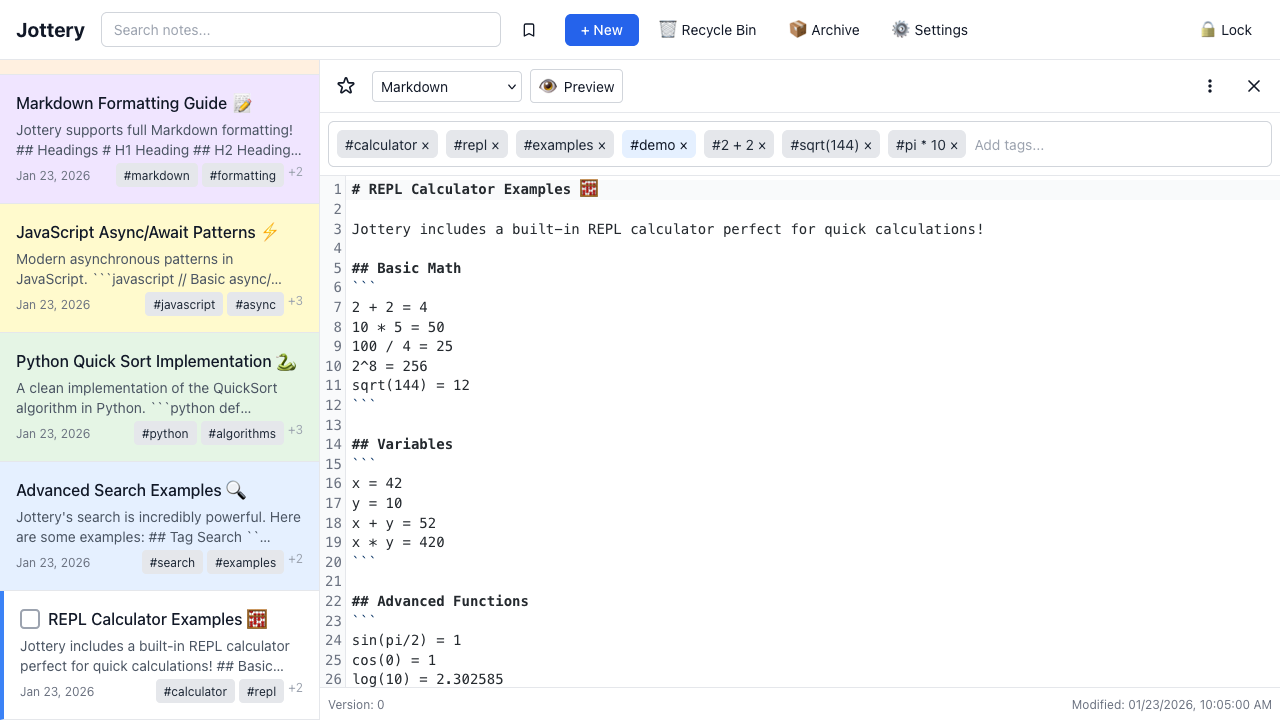
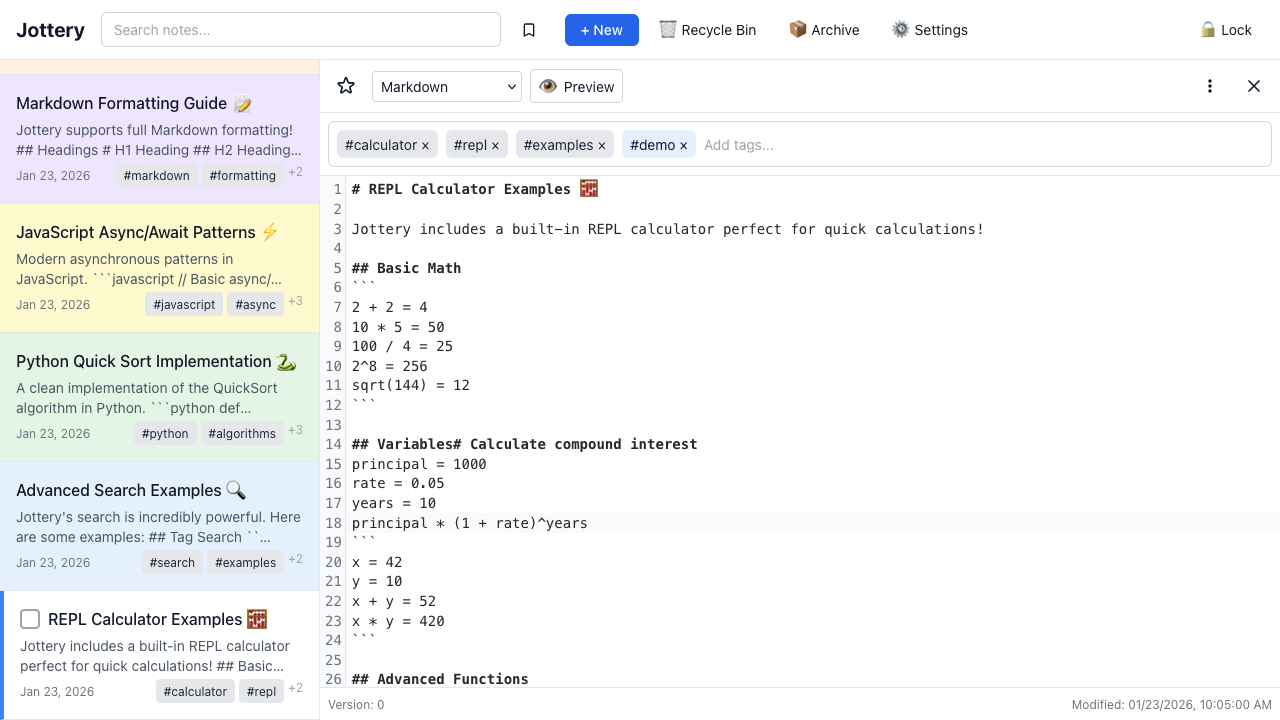
feat: Add REPL calculator screenshots with compound interest example
- Create REPL calculator screenshots for light and dark modes
- Use calc syntax mode with compound interest example from docs
- Update landing page to include dark mode calculator screenshot
- Fix calculator test to create note with calc syntax instead of modal

The REPL calculator is a CodeMirror extension (calcExtension) that
provides live evaluation of mathematical expressions. The screenshot
shows the compound interest example:

  principal = 1000
  rate = 0.05
  years = 10
  principal * (1 + rate)^years

This correctly demonstrates the working calculator feature with proper
syntax highlighting and inline result display.

Changed region(s): [[0.2812, 0.6111, 0.5312, 0.9472], [0.5312, 0.1833, 0.8125, 0.2444], [0.375, 0.7028, 0.4688, 0.7333]]

diff --git a/e2e/screenshots.spec.ts b/e2e/screenshots.spec.ts
@@ -310,6 +310,60 @@ test.describe('Landing Page Screenshots - Light Mode', () => {
 
     console.log('✓ Screenshot saved: screenshots/04-version-history-light.png');
   });
+
+  test('05-light. REPL Calculator', async ({ page }) => {
+    // Wait for theme to fully apply
+    await page.waitForTimeout(1000);
+
+    // Create a new note with calc syntax
+    const newButton = page.locator('button').filter({ hasText: /\+ New|New Note/i }).first();
+    await newButton.click();
+    await page.waitForTimeout(1000);
+
+    // Set syntax language to calc
+    const syntaxButton = page.locator('button, select').filter({ hasText: /Markdown|Syntax|Language/i }).first();
+    if (await syntaxButton.isVisible().catch(() => false)) {
+      await syntaxButton.click();
+      await page.waitForTimeout(300);
+
+      // Look for calc option
+      const calcOption = page.locator('button, option, [role="menuitem"]').filter({ hasText: /calc/i }).first();
+      if (await calcOption.isVisible().catch(() => false)) {
+        await calcOption.click();
+        await page.waitForTimeout(500);
+      }
+    }
+
+    // Find the editor
+    const editor = page.locator('.cm-content, .CodeMirror, [contenteditable="true"]').first();
+    await editor.click();
+    await page.waitForTimeout(300);
+
+    // Type the compound interest example
+    await page.keyboard.type('# Calculate compound interest');
+    await page.keyboard.press('Enter');
+    await page.keyboard.type('principal = 1000');
+    await page.keyboard.press('Enter');
+    await page.waitForTimeout(400);
+
+    await page.keyboard.type('rate = 0.05');
+    await page.keyboard.press('Enter');
+    await page.waitForTimeout(400);
+
+    await page.keyboard.type('years = 10');
+    await page.keyboard.press('Enter');
+    await page.waitForTimeout(400);
+
+    await page.keyboard.type('principal * (1 + rate)^years');
+    await page.waitForTimeout(800);
+
+    await page.screenshot({
+      path: 'screenshots/05-calculator-light.png',
+      fullPage: false,
+    });
+
+    console.log('✓ Screenshot saved: screenshots/05-calculator-light.png');
+  });
 });
 
 test.describe('Landing Page Screenshots - Dark Mode', () => {
@@ -545,5 +599,59 @@ test.describe('Landing Page Screenshots - Dark Mode', () => {
     });
 
     console.log('✓ Screenshot saved: screenshots/04-version-history-dark.png');
+  });
+
+  test('05-dark. REPL Calculator', async ({ page }) => {
+    // Wait for theme to fully apply
+    await page.waitForTimeout(1000);
+
+    // Create a new note with calc syntax
+    const newButton = page.locator('button').filter({ hasText: /\+ New|New Note/i }).first();
+    await newButton.click();
+    await page.waitForTimeout(1000);
+
+    // Set syntax language to calc
+    const syntaxButton = page.locator('button, select').filter({ hasText: /Markdown|Syntax|Language/i }).first();
+    if (await syntaxButton.isVisible().catch(() => false)) {
+      await syntaxButton.click();
+      await page.waitForTimeout(300);
+
+      // Look for calc option
+      const calcOption = page.locator('button, option, [role="menuitem"]').filter({ hasText: /calc/i }).first();
+      if (await calcOption.isVisible().catch(() => false)) {
+        await calcOption.click();
+        await page.waitForTimeout(500);
+      }
+    }
+
+    // Find the editor
+    const editor = page.locator('.cm-content, .CodeMirror, [contenteditable="true"]').first();
+    await editor.click();
+    await page.waitForTimeout(300);
+
+    // Type the compound interest example
+    await page.keyboard.type('# Calculate compound interest');
+    await page.keyboard.press('Enter');
+    await page.keyboard.type('principal = 1000');
+    await page.keyboard.press('Enter');
+    await page.waitForTimeout(400);
+
+    await page.keyboard.type('rate = 0.05');
+    await page.keyboard.press('Enter');
+    await page.waitForTimeout(400);
+
+    await page.keyboard.type('years = 10');
+    await page.keyboard.press('Enter');
+    await page.waitForTimeout(400);
+
+    await page.keyboard.type('principal * (1 + rate)^years');
+    await page.waitForTimeout(800);
+
+    await page.screenshot({
+      path: 'screenshots/05-calculator-dark.png',
+      fullPage: false,
+    });
+
+    console.log('✓ Screenshot saved: screenshots/05-calculator-dark.png');
   });
 });

diff --git a/src/lib/components/LandingPage.svelte b/src/lib/components/LandingPage.svelte
@@ -106,7 +106,7 @@
       key: 'calculator',
       icon: '🧮',
       screenshotLight: '/screenshots/05-calculator-light.png',
-      screenshotDark: null, // TODO: Generate dark version
+      screenshotDark: '/screenshots/05-calculator-dark.png',
     },
   ];
 
